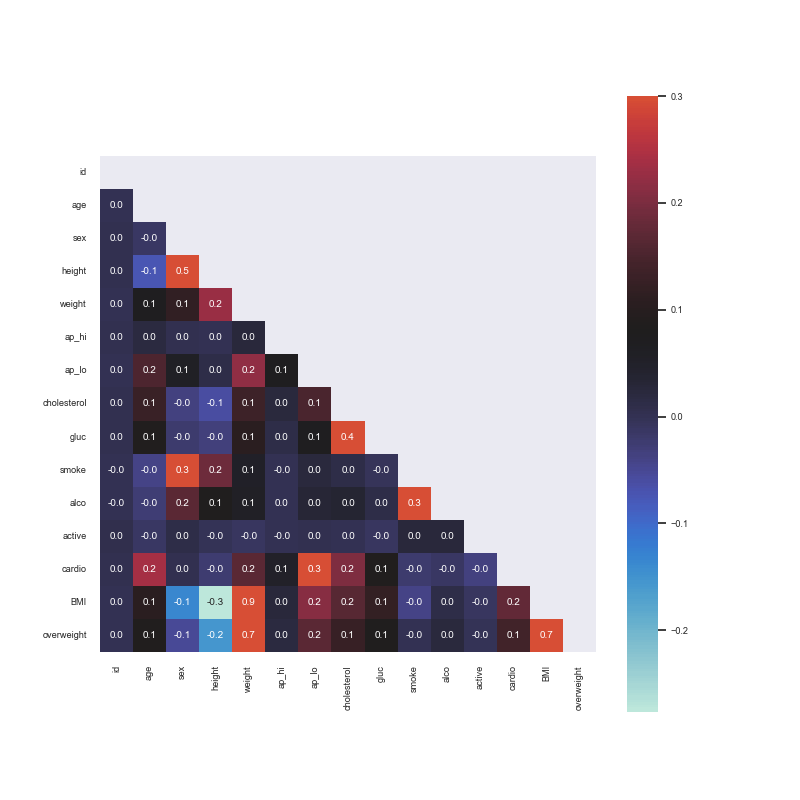
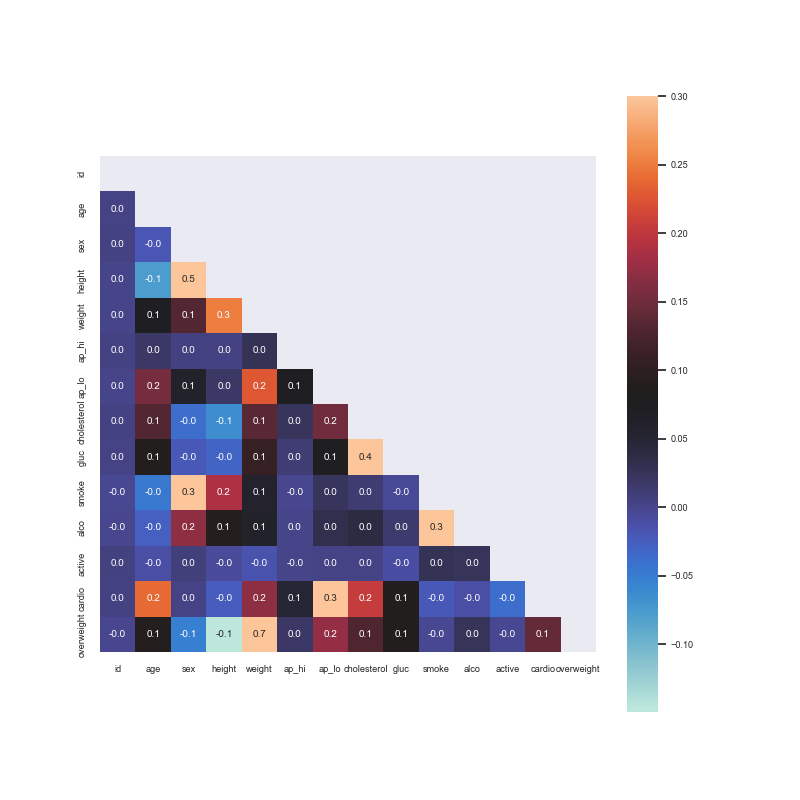
finished

Changed region(s): [[0.0625, 0.2188, 0.75, 0.875], [0.7812, 0.0938, 0.875, 0.7188], [0.8438, 0.7812, 0.875, 0.8125]]

diff --git a/medical_data_visualizer.py b/medical_data_visualizer.py
@@ -7,9 +7,10 @@ import numpy as np
 df = pd.read_csv('medical_examination.csv')
 
 # Add 'overweight' column
-df['BMI'] = df['weight'] /( (df['height']/100) * (df['height']/100))
+
+df['BMI'] = df['weight'] /pow( df['height']/100, 2)
 df['overweight'] = 0
-df.loc[df['BMI'] >25, 'overweight'] = 1
+df.loc[df['BMI'] > 25, 'overweight'] = 1
 
 # Normalize data by making 0 always good and 1 always bad. If the value of 'cholesterol' or 'gluc' is 1, make the value 0. If the value is more than 1, make the value 1.
 df.loc[df['cholesterol'] == 1, 'cholesterol'] = 0
@@ -22,7 +23,7 @@ df.loc[df['gluc'] > 1, 'gluc'] = 1
 # Draw Categorical Plot
 def draw_cat_plot():
     # Create DataFrame for cat plot using `pd.melt` using just the values from 'cholesterol', 'gluc', 'smoke', 'alco', 'active', and 'overweight'.
-    df_cat = df.drop(columns=['id','age','sex','height','weight','ap_hi','ap_lo', 'BMI'])
+    df_cat = df.drop(columns=['id','age','sex','height','weight','ap_hi','ap_lo', 'BMI']) #
     df_cat = df_cat.melt(id_vars='cardio') #id_vars=['cholesterol', 'gluc', 'smoke', 'alco', 'active', 'overweight']
     
     # Group and reformat the data to split it by 'cardio'. Show the counts of each feature. You will have to rename one of the columns for the catplot to work correctly.
@@ -45,21 +46,22 @@ def draw_cat_plot():
 
 # Draw Heat Map
 def draw_heat_map():
+    
     # Clean the data
-    df_heat = df
-    df_heat = df_heat.drop(df_heat[df_heat['ap_lo'] >= df_heat['ap_hi']].index)
-    df_heat = df_heat.drop(df_heat[(df_heat['height'] <= df_heat['height'].quantile(0.025))].index)
-    df_heat = df_heat.drop(df_heat[(df_heat['height'] >= df_heat['height'].quantile(0.975))].index)
-    df_heat = df_heat.drop(df_heat[(df_heat['weight'] <= df_heat['weight'].quantile(0.025))].index)
-    df_heat = df_heat.drop(df_heat[(df_heat['weight'] >= df_heat['weight'].quantile(0.975))].index)
+  
+    df_heat = df[(df['ap_lo'] <= df['ap_hi']) & 
+                    (df['height'] >= (df['height'].quantile(0.025))) &
+                    (df['height'] <= (df['height'].quantile(0.975))) &
+                    (df['weight'] >= (df['weight'].quantile(0.025))) &
+                    (df['weight'] <= (df['weight'].quantile(0.975)))]
 
+    df_heat = df_heat.drop(columns = 'BMI')
 
     # Calculate the correlation matrix
     corr = df_heat.corr()
 
     # Generate a mask for the upper triangle
-    mask = np.zeros_like(corr)
-    mask[np.triu_indices_from(mask)] = True
+    mask = np.triu(corr)
 
     # Set up the matplotlib figure
     fig, ax = plt.subplots(figsize=(8, 8))
